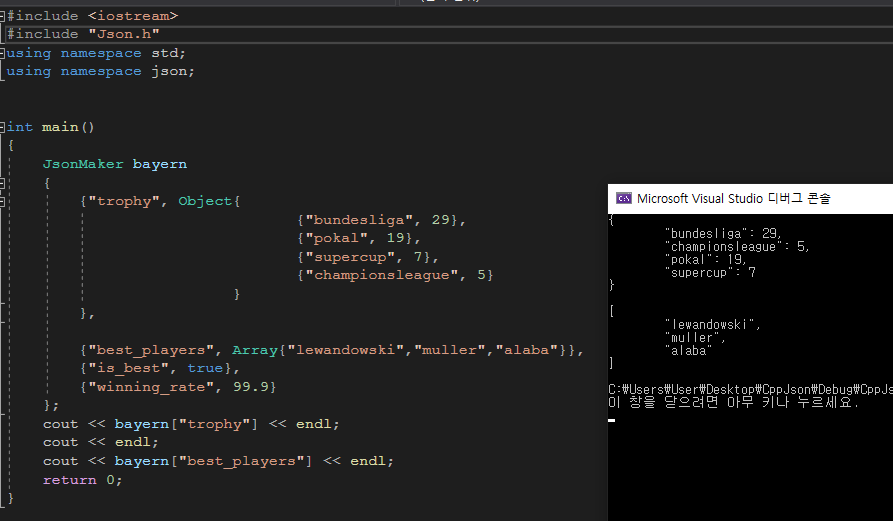
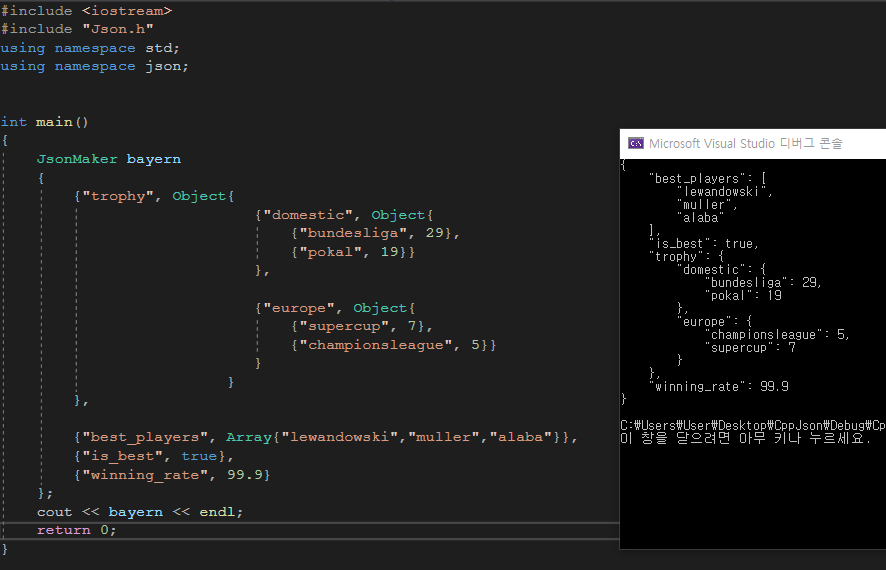
Modify a function that sets the depth

diff --git a/CppJson/Value.h b/CppJson/Value.h
@@ -18,7 +18,7 @@ namespace json
 	{
 		friend Json;
 	public: // definitions
-		enum class value_type { BOOLEAN, INT, DOUBLE, STRING, EMPTY, ARRAY, OBJECT };
+		enum class types { BOOLEAN, INT, DOUBLE, STRING, EMPTY, ARRAY, OBJECT };
 		using Array = std::vector<Value>;
 		using Object = std::map<std::string, Value>;
 		using Null = std::nullptr_t;
@@ -41,7 +41,7 @@ namespace json
 		template<class T>
 		T& GetValue();
 
-		value_type GetType() const;
+		types GetType() const;
 		bool HasValue();
 
 	public: // operators
@@ -54,12 +54,11 @@ namespace json
 		friend std::ostream& operator<<(std::ostream& os, Value& val);
 
 	private:
-		void SpaceDepth(std::ostream& os, int depth);
-		void SetDepth(Object& obj, int depth);
-		void SetDepth(Array& arr, int depth);
+		static void SpaceDepth(std::ostream& os, int depth);
+		static void SetDepth(Value& val, int depth);
+		
 
 	private:
-
 		json_value m_Value;
 		int m_nDepth;
 	};
@@ -75,18 +74,20 @@ namespace json
 	inline Value& Value::operator=(Value&& value)
 	{
 		m_Value = std::move(value.m_Value);
+		m_nDepth = value.m_nDepth;
 		return *this;
 	}
 
 	inline Value& Value::operator=(const Value& value)
 	{
 		m_Value = value.m_Value;
+		m_nDepth = value.m_nDepth;
 		return *this;
 	}
 
-	inline Value::value_type Value::GetType() const
+	inline Value::types Value::GetType() const
 	{
-		return static_cast<Value::value_type>(m_Value.index());
+		return static_cast<Value::types>(m_Value.index());
 	}
 
 	inline bool Value::HasValue()
@@ -107,43 +108,34 @@ namespace json
 	inline void Value::SpaceDepth(std::ostream& os, int depth)
 	{
 		for (int i = 0; i < depth; i++)
-			os << '\t';
+			os << "    ";
 	}
-
-	inline void Value::SetDepth(Object& obj, int depth)
+	
+	inline void Value::SetDepth(Value& val, int depth)
 	{
-		for (auto& [key, val] : obj)
+		static auto isNotValue = 
+			[](Value& v) {return v.GetType() == types::OBJECT || v.GetType() == types::ARRAY; };
+		if (!isNotValue(val))
+			return;
+		val.m_nDepth = depth;
+		if (val.GetType() == types::OBJECT)
 		{
-			switch (val.GetType())
+			for (auto& [key, value] : val.GetValue<Object>())
 			{
-			case value_type::ARRAY:
-				SetDepth(val.GetValue<Array>(), depth + 1);
-				break;
-			case value_type::OBJECT:
-				SetDepth(val.GetValue<Object>(), depth + 1);
-				break;
-			default:
-				val.m_nDepth = depth + 1;
-				break;
+				if (isNotValue(value))
+				{
+					Value::SetDepth(value, depth + 1);
+				}
 			}
 		}
-	}
-
-	inline void Value::SetDepth(Array& arr, int depth)
-	{
-		for (auto& val : arr)
+		else
 		{
-			switch (val.GetType())
+			for (auto& value : val.GetValue<Array>())
 			{
-			case value_type::ARRAY:
-				SetDepth(val.GetValue<Array>(), depth + 1);
-				break;
-			case value_type::OBJECT:
-				SetDepth(val.GetValue<Object>(), depth + 1);
-				break;
-			default:
-				val.m_nDepth = m_nDepth;
-				break;
+				if (isNotValue(value))
+				{
+					Value::SetDepth(value, depth + 1);
+				}
 			}
 		}
 	}
@@ -158,63 +150,77 @@ namespace json
 	{
 		switch (val.GetType())
 		{
-		case Value::value_type::BOOLEAN:
+		case Value::types::BOOLEAN:
 		{
 			os << std::boolalpha << val.GetValue<bool>();
 			break;
 		}
-		case Value::value_type::INT:
+		case Value::types::INT:
 		{
 			os << val.GetValue<int>();
 			break;
 		}
-		case Value::value_type::DOUBLE:
+		case Value::types::DOUBLE:
 		{
 			os << val.GetValue<double>();
 			break;
 		}
-		case Value::value_type::STRING:
+		case Value::types::STRING:
 		{
 			os << '\"' << val.GetValue<std::string>() << '\"';
 			break;
 		}
-		case Value::value_type::EMPTY:
+		case Value::types::EMPTY:
 		{
 			os << "null";
 			break;
 		}
-		case Value::value_type::ARRAY:
+		case Value::types::ARRAY:
 		{
 			auto& arr = val.GetValue<Value::Array>();
 			os << "[\r\n";
 			for (auto itr = arr.begin(); itr != arr.end(); itr++)
 			{
-				val.SpaceDepth(os, val.m_nDepth + 1);
+				Value::SpaceDepth(os, val.m_nDepth + 1);
 				os << *itr;
 				if (itr != arr.end() - 1)
-					os << ", ";
+				{
+					os << ", ";	
+				}
+				else
+				{
+					os << "\r\n";
+					Value::SpaceDepth(os, val.m_nDepth);
+					os << ']';
+					break;
+				}
 				os << "\r\n";
 			}
-			val.SpaceDepth(os, val.m_nDepth);
-			os << ']';
 			break;
 		}
-		case Value::value_type::OBJECT:
+		case Value::types::OBJECT:
 		{
 			int cnt = 0;
 			auto& obj = val.GetValue<Value::Object>();
-			val.SetDepth(obj, 0);
+			Value::SetDepth(val, val.m_nDepth);
 			os << "{\r\n";
-			for (auto& [key, val] : obj)
+			for (auto& [key, value] : obj)
 			{
-				val.SpaceDepth(os, val.m_nDepth + 1);
-				os << '\"' << key << "\": " << val;
+				Value::SpaceDepth(os, val.m_nDepth + 1);
+				os << '\"' << key << "\": " << value;
 				if (cnt++ != obj.size() - 1)
-					os << ',';
+				{
+					os << ", ";
+				}
+				else
+				{
+					os << "\r\n";
+					Value::SpaceDepth(os, val.m_nDepth);
+					os << '}';
+					break;
+				}
 				os << "\r\n";
 			}
-			val.SpaceDepth(os, val.m_nDepth);
-			os << '}';
 			break;
 		}
 		}

diff --git a/CppJson/Json.h b/CppJson/Json.h
@@ -4,7 +4,7 @@
 namespace json
 {
 	constexpr Value::Null Null = nullptr;
-	using value_type = Value::value_type;
+	using value_type = Value::types;
 	using Array = Value::Array;
 	using Object = Value::Object;
 	using JsonMaker = Value::Object;

diff --git a/CppJson/main.cpp b/CppJson/main.cpp
@@ -26,7 +26,5 @@ int main()
 		{"winning_rate", 99.9}
 	};
 	cout << bayern << endl;
-	cout << endl;
-	cout << bayern["best_players"] << endl;
 	return 0;
 }
